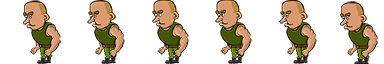
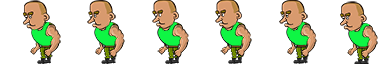
terminado menu powerups y nuevos sprites para el arte

diff --git a/docs/SaveyourSon/src/menuPowerUps.js b/docs/SaveyourSon/src/menuPowerUps.js
@@ -18,8 +18,6 @@ export default class MenuPowerUps extends Phaser.Scene {
         this.load.image('Llave','./SaveyourSon/assets/Key.png');
         this.load.image('menu','./SaveyourSon/assets/Menu.jpg');
         this.load.image('easterEgg','./SaveyourSon/assets/EasterEgg.png');
-
-       // this.load.image('nextLevel','');
         this.load.bitmapFont('font', './SaveyourSon/assets/carrier_command.png', './SaveyourSon/assets/carrier_command.xml');      
 
 
@@ -54,13 +52,18 @@ export default class MenuPowerUps extends Phaser.Scene {
         this.add.bitmapText(721, 285, 'font', 'comprar');
         this.add.bitmapText(721, 485, 'font', 'comprar');
         this.add.bitmapText(721, 685, 'font', 'comprar');
-
-      this.txt=this.gM.GetSpeedImprovments()+'/'+this.gM.GetMaxImprovements();
-        this.add.bitmapText(595, 290, 'font', this.txt).setScale(0.75);
-         this.txt2=this.gM.GetSpeedPenalizations()+'/'+this.gM.GetMaxImprovements();
-
-        this.add.bitmapText(595, 490, 'font', this.txt2).setScale(0.75);
-         this.txt3=this.gM.GetJetpackImprovements()+'/'+this.gM.GetMaxImprovements();
+        this.speedImprovmentText= this.add.text(595,290,this.gM.GetSpeedImprovments()+'/'+this.gM.GetMaxImprovements());
+        this.speedImprovmentText.setAlign('center');
+        this.speedImprovmentText.setFont('font');
+        this.speedImprovmentText.setFontSize(40);
+        this.speedPenalizationText= this.add.text(595,490,this.gM.GetSpeedPenalizations()+'/'+this.gM.GetMaxImprovements());
+        this.speedPenalizationText.setAlign('center');
+        this.speedPenalizationText.setFont('font');
+        this.speedPenalizationText.setFontSize(40);
+        this.fuelText= this.add.text(595,690,this.gM.GetJetpackImprovements()+'/'+this.gM.GetMaxImprovements());
+        this.fuelText.setAlign('center');
+        this.fuelText.setFont('font');
+        this.fuelText.setFontSize(40);
 
         this.add.bitmapText(595, 690, 'font', this.txt3).setScale(0.75);
 
@@ -73,9 +76,10 @@ export default class MenuPowerUps extends Phaser.Scene {
     update(time, delta) {
 
     this.textoLLaves.setText(this.gM.GetKey());
-    this.txt=this.gM.GetSpeedImprovments()+'/'+this.gM.GetMaxImprovements();
-    this.txt2=this.gM.GetSpeedPenalizations()+'/'+this.gM.GetMaxImprovements();
-    this.txt3=this.gM.GetJetpackImprovements()+'/'+this.gM.GetMaxImprovements();
+    this.speedImprovmentText.setText(this.gM.GetSpeedImprovments()+'/'+this.gM.GetMaxImprovements());
+    this.speedPenalizationText.setText(this.gM.GetSpeedPenalizations()+'/'+this.gM.GetMaxImprovements());
+    this.fuelText.setText(this.gM.GetJetpackImprovements()+'/'+this.gM.GetMaxImprovements());
+
 this.arrow.on('pointerdown',pointer => {
 if(!this.mouseClick){
     this.scene.start(this.gM.GetSuperNextScene(), this.gM);

diff --git a/docs/SaveyourSon/src/GameManager.js b/docs/SaveyourSon/src/GameManager.js
@@ -1,6 +1,6 @@
 export default class GameManager{
     constructor(){
-        this.keys=0;//En esta variable guardaremos las llaves que el jugador tiene para comprar mejoras
+        this.keys=1000;//En esta variable guardaremos las llaves que el jugador tiene para comprar mejoras
         this.scene=0;//en esta escena guardaremos la escena en la que nos encontramos 
         this.speedImprovmentsBought=0;//En esta variable se guardará cuantas veces hemos ampliado la velocidad del jugador
         this.speedPenalizationBought=0;//En esta variable se guardará cuantas veces hemos reducido la velocidad del alcaide

diff --git a/docs/SaveyourSon/src/Level2.js b/docs/SaveyourSon/src/Level2.js
@@ -26,14 +26,14 @@ export default class Level2 extends Game {
   }
   preload() {
   super.preload();
-  this.load.image('fondo2','./SaveyourSon/assets/Level2.jpg')
+  // this.load.image('fondo2','./SaveyourSon/assets/Level2.jpg');
   this.load.tilemapTiledJSON('Nivel2', './SaveyourSon/assets/Nivel2.json');
   this.load.image('patronesTilemap', './SaveyourSon/assets/patrones.png');
 }
 
 create(data) {
   this.gM=data;
-  this.fondo=new fondo(this,'fondo2').setScale(1.5);
+  // this.fondo=new fondo(this,'fondo2').setScale(1.5);
   this.map = this.make.tilemap({ 
     key: 'Nivel2', 
       tileWidth: 64, 

diff --git a/docs/SaveyourSon/src/player.js b/docs/SaveyourSon/src/player.js
@@ -3,7 +3,7 @@ import GameManager from "./GameManager.js"
 export default class Player extends Phaser.GameObjects.Sprite{
     ///Crea al jugador y para ello se le pasa la escena, el GM y el LVM
 constructor(scene,gameManager,levelManager){
-    let x=100;
+    let x=40100;
     let y=150;
     super(scene,x,y,'dude');
     scene.add.existing(this);

diff --git a/docs/juego.html b/docs/juego.html
@@ -36,7 +36,7 @@
                 autoCenter: Phaser.Scale.CENTER_BOTH
             },
 
-            scene: [Level2,Level3,Level1,MenuPrincipal,MenuPowerUps],
+            scene: [Level1,Level3,Level2,MenuPrincipal,MenuPowerUps],
             physics: { default: 'arcade', arcade: { gravity: { y: 1000 }, debug: true } }
 
         };

diff --git a/docs/SaveyourSon/src/Level1.js b/docs/SaveyourSon/src/Level1.js
@@ -17,7 +17,6 @@ import fondo from "./fondo.js"
 export default class Level1 extends Game {
     constructor(){
         super('Level1')
-        this.lvM = new LevelManager();
         this.gM=new GameManager();
     }
     preload() {
